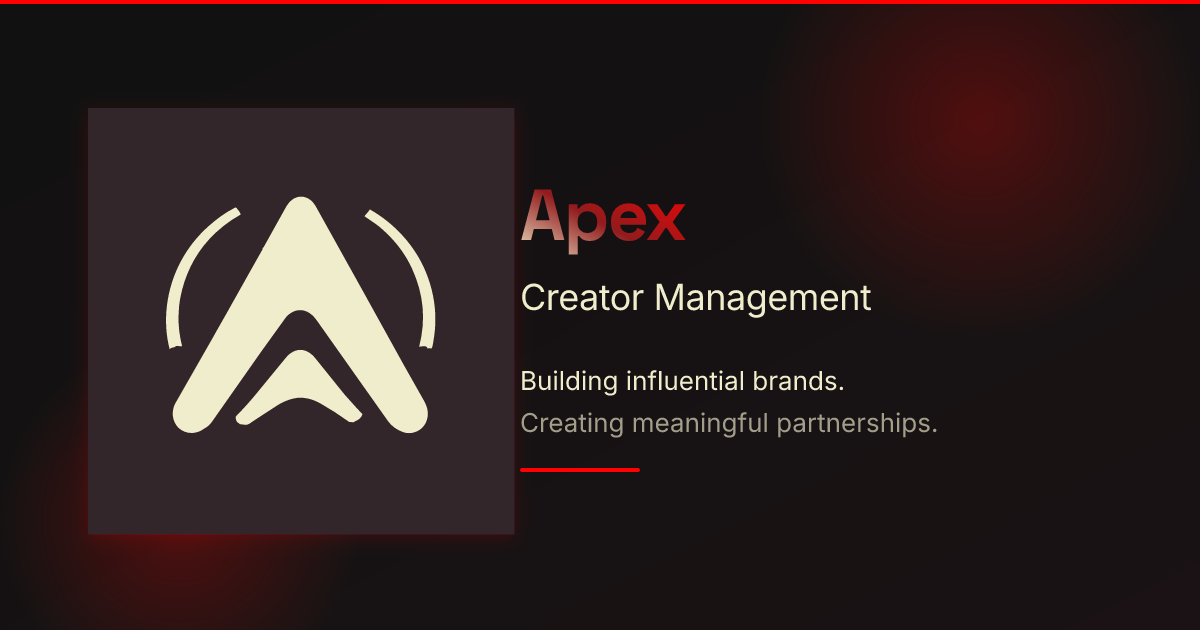
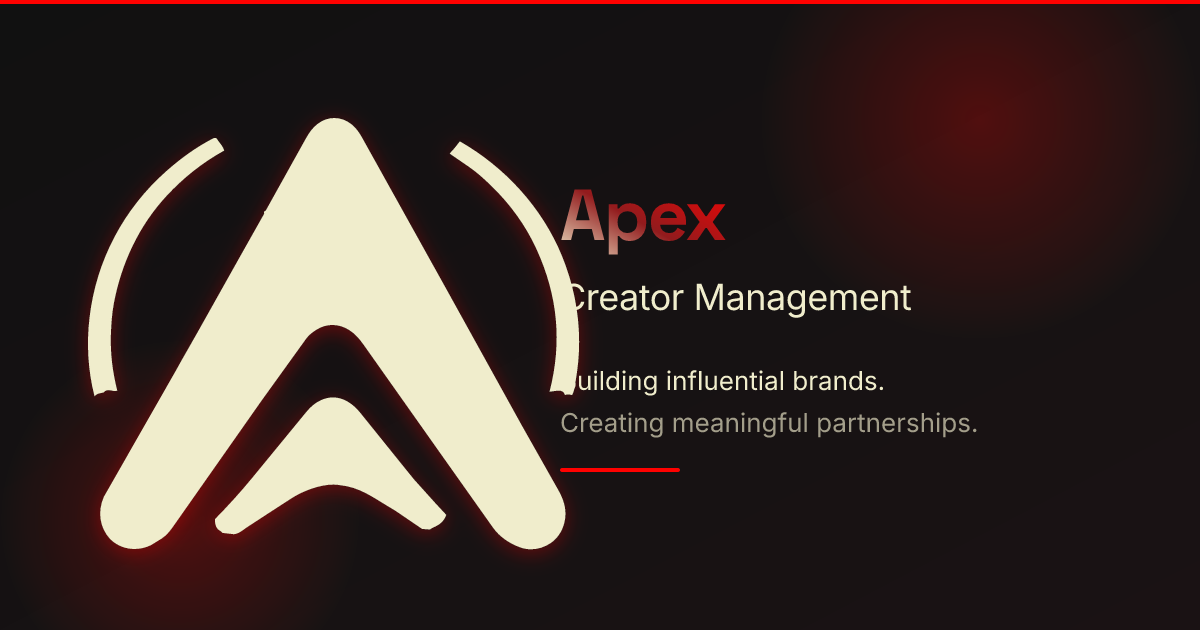
Use transparent Apex assets and add hero atmosphere band below header.
Replace inline SVG logo with Apex.svg across header, footer, favicon, and OG image; fill header gap with abstract logo watermark and grid accents.

Changed region(s): [[0.0617, 0.1508, 0.8325, 0.9048], [0.5242, 0.7238, 0.555, 0.754]]

diff --git a/src/components/marketing/ApexLogo.tsx b/src/components/marketing/ApexLogo.tsx
@@ -2,120 +2,24 @@ import { cn } from "@/lib/utils";
 
 type ApexLogoProps = {
   className?: string;
-  animated?: boolean;
-  size?: "sm" | "md" | "lg" | "hero";
+  size?: "sm" | "md" | "lg" | "xl" | "hero";
 };
-
-const BONE = "#F0EDCC";
-const SMOKE = "#312529";
-const FIRE = "#FF0100";
-const BURNT = "#921B1D";
 
 const sizeMap = {
-  sm: "w-10 h-10",
-  md: "w-16 h-16",
-  lg: "w-28 h-28",
-  hero: "w-full max-w-[min(100%,22rem)] sm:max-w-md aspect-square",
+  sm: "h-9 w-auto",
+  md: "h-14 w-auto",
+  lg: "h-24 w-auto",
+  xl: "h-36 w-auto",
+  hero: "h-[min(55vw,22rem)] w-auto",
 };
 
-const FRAME_PATH =
-  "M0,1254V0h1254v1254H0ZM581.62,616.35c4.68-6.5,10.43-10.33,16.47-14.23,16.52-10.67,36.71-9.96,53.05.73,9.23,6.04,15.95,13.58,22.46,22.81l129.09,182.59,80.14,113.16c10.56,14.91,26.94,25.87,44.03,31.9,16.8,5.93,34.76,2.68,49.12-7.15,12.89-8.82,21.19-23.5,23.22-40.19,2.04-16.72-3.27-31.34-11.45-45.81l-58.45-103.47-122.19-220.82-135.36-243.3c-4.76-8.55-9.6-15.51-16.8-21.45-16.27-13.44-38.24-13.99-54.95-1.04-8.16,6.32-13.68,14.06-18.83,23.3l-64.98,116.72c-2.66.75-3.33,2.47-2.38,4.84l-37.43,66.41-71.1,126.73-25.06,44.01-10,17.98-115.11,201.62c-10.31,23.5-7.15,49.46,10.16,68.11,17.52,17.24,43.26,20.54,65.7,9.9l17.32-10.68c9.11-5.62,15.11-14.53,21.45-23.56l139.74-198.97,72.15-100.17ZM276.73,700.47c-7.57-30.21-11.33-59.74-10.29-89.99.6-17.69,1.62-33.95,4.92-51.41,12.1-64.13,40.43-124.71,84.89-172.7,27.21-29.36,57.98-53.86,93.05-73.18-1.97-6.3-6.13-10.95-9.74-15.65-1.38-1.8-1.5-3.73-3.52-4.35-2.52-.78-3.63-.13-5.92,1.06-27.19,14.17-51.57,32.13-74.41,52.32-68.99,61-112.86,144.03-123.65,235.79-5.01,42.54-2.67,85.66,8.08,127.43,2.78-2.84,3.53-3.82,6.51-4.54l8.36-2.02c6.41-7.9,14.16-.03,21.73-2.76ZM985.85,700.65c5.85-.76,10.96.22,13.1,6.9,3.98-1.71,7.34-.9,11.46.03,3.57-6.72,4.13-13.85,5.38-21.14,3.73-21.68,5.95-42.67,5.91-64.92-.09-47.61-9.62-94.21-27.76-138.48-31.9-77.86-91.89-143.03-164.64-184.67l-8.23,10.46c-2.52,3.2-5.36,5.58-8.09,9.41l30.71,21.03c13.43,9.19,24.59,19.51,36.31,30.86,30.58,29.62,55.46,63.73,73.22,102.71,33.91,74.43,41.36,149.34,20.73,229.35l11.9-1.54ZM713.95,887.3l11.16,6.66,43.63,29.72,9,.31c3.91,1.49,5.32-1.49,7.65-2.4,10.04-3.95,18.46-9.96,22.04-20.76l-17.99-19.31-29.32-32.59c-1.79-1.99-3.01-3.14-4.76-5.31l-15.26-18.82-71.26-88.45c-16.42-20.38-38.7-31.68-63.2-20.68-9.79,4.4-17.1,10.87-23.92,19.18l-86.91,105.86c-19.26,23.45-39.01,45.2-60.47,66.99-.08,5.76.76,12.74,5.27,16.74,1.88,1.67,5.14,2.74,6.66,5.41l18.58,2.18c8.51-.9,14.84-7.12,21.5-11.47l35.86-23.41,35.7-23.13c20.51-13.29,53.55-25.32,77.42-21.24,32.15,3.23,52.83,19.11,78.65,34.52Z";
-
-const INTERIOR_PATHS = [
-  "M581.62,616.35l-72.15,100.17-139.74,198.97c-6.34,9.03-12.34,17.94-21.45,23.56l-17.32,10.68c-22.44,10.64-48.18,7.34-65.7-9.9-17.31-18.65-20.48-44.62-10.16-68.11l115.11-201.62,10-17.98,25.06-44.01,71.1-126.73,37.43-66.41c-.95-2.37-.28-4.09,2.38-4.84l64.98-116.72c5.15-9.25,10.67-16.98,18.83-23.3,16.72-12.95,38.68-12.4,54.95,1.04,7.2,5.95,12.05,12.9,16.8,21.45l135.36,243.3,122.19,220.82,58.45,103.47c8.18,14.48,13.48,29.1,11.45,45.81-2.03,16.69-10.34,31.36-23.22,40.19-14.36,9.83-32.33,13.08-49.12,7.15-17.09-6.03-33.47-16.99-44.03-31.9l-80.14-113.16-129.09-182.59c-6.52-9.22-13.24-16.77-22.46-22.81-16.34-10.69-36.53-11.4-53.05-.73-6.03,3.9-11.79,7.73-16.47,14.23Z",
-  "M713.95,887.3c-25.82-15.41-46.5-31.29-78.65-34.52-23.87-4.08-56.91,7.96-77.42,21.24l-35.7,23.13-35.86,23.41c-6.66,4.35-12.99,10.57-21.5,11.47l-18.58-2.18c-1.52-2.67-4.78-3.74-6.66-5.41-4.51-4-5.35-10.98-5.27-16.74,21.47-21.78,41.22-43.54,60.47-66.99l86.91-105.86c6.82-8.31,14.13-14.79,23.92-19.18,24.49-11,46.78.3,63.2,20.68l71.26,88.45,15.26,18.82c1.76,2.17,2.97,3.32,4.76,5.31l29.32,32.59,17.99,19.31c-3.58,10.8-12,16.81-22.04,20.76-2.33.92-3.74,3.89-7.65,2.4l-9-.31-43.63-29.72-11.16-6.66Z",
-  "M276.73,700.47c-7.58,2.73-15.32-5.14-21.73,2.76l-8.36,2.02c-2.99.72-3.73,1.7-6.51,4.54-10.75-41.78-13.08-84.89-8.08-127.43,10.8-91.76,54.66-174.79,123.65-235.79,22.84-20.2,47.23-38.15,74.41-52.32,2.29-1.19,3.4-1.83,5.92-1.06,2.03.62,2.14,2.55,3.52,4.35,3.61,4.7,7.77,9.35,9.74,15.65-35.07,19.33-65.84,43.83-93.05,73.18-44.47,47.98-72.79,108.57-84.89,172.7-3.3,17.46-4.32,33.73-4.92,51.41-1.03,30.26,2.73,59.79,10.29,89.99Z",
-  "M985.85,700.65l-11.9,1.54c20.64-80,13.19-154.91-20.73-229.35-17.76-38.98-42.64-73.09-73.22-102.71-11.72-11.35-22.88-21.66-36.31-30.86l-30.71-21.03c2.73-3.83,5.57-6.22,8.09-9.41l8.23-10.46c72.75,41.65,132.73,106.81,164.64,184.67,18.14,44.27,27.67,90.87,27.76,138.48.04,22.25-2.18,43.24-5.91,64.92-1.25,7.29-1.82,14.42-5.38,21.14-4.12-.93-7.48-1.74-11.46-.03-2.14-6.68-7.26-7.65-13.1-6.9Z",
-];
-
-const RAIN_DROPS = [
-  { x: 420, delay: "0s" },
-  { x: 520, delay: "0.35s" },
-  { x: 620, delay: "0.7s" },
-  { x: 720, delay: "0.2s" },
-  { x: 820, delay: "0.55s" },
-  { x: 480, delay: "0.9s" },
-  { x: 680, delay: "1.1s" },
-];
-
-export function ApexLogo({ className = "", animated = false, size = "md" }: ApexLogoProps) {
-  const uid = `apex-${size}`;
-
+export function ApexLogo({ className = "", size = "md" }: ApexLogoProps) {
   return (
-    <div
-      className={cn(
-        "relative inline-flex items-center justify-center",
-        sizeMap[size],
-        animated && "animate-logo-float",
-        className,
-      )}
-    >
-      {animated && (
-        <div
-          className="absolute inset-0 rounded-full bg-brand-fire/10 blur-2xl animate-logo-ring"
-          aria-hidden
-        />
-      )}
-      <svg
-        viewBox="0 0 1254 1254"
-        className="relative z-10 w-full h-full drop-shadow-lg"
-        aria-label="Apex Creator Management"
-        role="img"
-      >
-        <defs>
-          <clipPath id={`${uid}-interior`}>
-            {INTERIOR_PATHS.map((d, i) => (
-              <path key={i} d={d} />
-            ))}
-          </clipPath>
-          <linearGradient id={`${uid}-water`} x1="0" y1="1" x2="0" y2="0">
-            <stop offset="0%" stopColor={SMOKE} />
-            <stop offset="45%" stopColor={BURNT} />
-            <stop offset="100%" stopColor={FIRE} stopOpacity="0.95" />
-          </linearGradient>
-          <linearGradient id={`${uid}-surface`} x1="0" y1="0" x2="1" y2="0">
-            <stop offset="0%" stopColor="#ffffff" stopOpacity="0" />
-            <stop offset="50%" stopColor="#ffffff" stopOpacity="0.28" />
-            <stop offset="100%" stopColor="#ffffff" stopOpacity="0" />
-          </linearGradient>
-        </defs>
-
-        <path d={FRAME_PATH} fill={SMOKE} />
-
-        {animated ? (
-          <g clipPath={`url(#${uid}-interior)`}>
-            <rect x="0" y="0" width="1254" height="1254" fill={BONE} />
-            {RAIN_DROPS.map((drop, i) => (
-              <line
-                key={i}
-                x1={drop.x}
-                y1={0}
-                x2={drop.x}
-                y2={36}
-                stroke={FIRE}
-                strokeWidth={8}
-                strokeLinecap="round"
-                opacity={0.55}
-                className="animate-logo-rain"
-                style={{ animationDelay: drop.delay }}
-              />
-            ))}
-            <g className="animate-water-fill-drain">
-              <rect x="-20" y="0" width="1294" height="1294" fill={`url(#${uid}-water)`} />
-              <ellipse
-                cx="627"
-                cy="0"
-                rx="680"
-                ry="44"
-                fill={`url(#${uid}-surface)`}
-                className="animate-water-surface-wave"
-              />
-            </g>
-          </g>
-        ) : (
-          INTERIOR_PATHS.map((d, i) => <path key={i} d={d} fill={BONE} />)
-        )}
-      </svg>
-    </div>
+    <img
+      src="/Apex.svg"
+      alt="Apex Creator Management"
+      className={cn("block object-contain select-none", sizeMap[size], className)}
+      draggable={false}
+    />
   );
 }

diff --git a/src/components/marketing/HeroAtmosphere.tsx b/src/components/marketing/HeroAtmosphere.tsx
@@ -1,0 +1,46 @@
+import { ApexLogo } from "./ApexLogo";
+
+export function HeroAtmosphere() {
+  return (
+    <div className="relative w-full overflow-hidden border-b border-border/40" aria-hidden>
+      <div className="absolute inset-0 bg-gradient-to-b from-smoke/30 via-transparent to-transparent pointer-events-none" />
+      <div className="absolute top-1/2 left-1/2 -translate-x-1/2 -translate-y-1/2 w-[min(90vw,520px)] h-[min(90vw,520px)] rounded-full bg-brand-fire/10 blur-[80px] animate-glow-pulse pointer-events-none" />
+      <div className="absolute top-8 right-[8%] w-32 h-32 rounded-full bg-burnt/15 blur-3xl animate-orb pointer-events-none" />
+      <div className="absolute bottom-4 left-[6%] w-40 h-40 rounded-full bg-brand-fire/8 blur-3xl animate-orb pointer-events-none" style={{ animationDelay: "2s" }} />
+
+      <svg className="absolute inset-0 w-full h-full opacity-[0.07]" preserveAspectRatio="none" viewBox="0 0 1200 320">
+        <defs>
+          <pattern id="hero-grid" width="40" height="40" patternUnits="userSpaceOnUse">
+            <path d="M 40 0 L 0 0 0 40" fill="none" stroke="#F0EDCC" strokeWidth="0.5" />
+          </pattern>
+        </defs>
+        <rect width="1200" height="320" fill="url(#hero-grid)" />
+        <line x1="0" y1="280" x2="1200" y2="40" stroke="#FF0100" strokeWidth="1" strokeOpacity="0.35" />
+        <line x1="0" y1="60" x2="1200" y2="300" stroke="#921B1D" strokeWidth="1" strokeOpacity="0.25" />
+      </svg>
+
+      <div className="relative flex flex-col items-center justify-center px-4 pt-10 pb-8 sm:pt-12 sm:pb-10 min-h-[220px] sm:min-h-[280px]">
+        <div className="relative flex items-center justify-center">
+          <div className="absolute inset-0 scale-110 rounded-full border border-brand-fire/20 animate-logo-ring" />
+          <div className="absolute inset-0 scale-[1.35] rounded-full border border-dashed border-bone/10" />
+          <ApexLogo
+            size="xl"
+            className="relative z-10 opacity-[0.18] sm:opacity-[0.22] drop-shadow-[0_0_40px_rgba(255,1,0,0.35)]"
+          />
+          <ApexLogo
+            size="md"
+            className="absolute z-20 opacity-90 drop-shadow-[0_0_24px_rgba(255,1,0,0.25)]"
+          />
+        </div>
+
+        <div className="mt-6 flex items-center gap-3 text-[0.65rem] sm:text-xs font-bold uppercase tracking-[0.35em] text-muted-foreground">
+          <span className="h-px w-10 sm:w-16 bg-gradient-to-r from-transparent to-brand-fire/70" />
+          <span className="text-brand-fire/90">Creator Management</span>
+          <span className="h-px w-10 sm:w-16 bg-gradient-to-l from-transparent to-brand-fire/70" />
+        </div>
+      </div>
+
+      <div className="absolute inset-x-0 bottom-0 h-px bg-gradient-to-r from-transparent via-brand-fire/50 to-transparent" />
+    </div>
+  );
+}

diff --git a/src/routes/index.tsx b/src/routes/index.tsx
@@ -1,6 +1,7 @@
 import { createFileRoute } from "@tanstack/react-router";
 
 import { ContactForm } from "@/components/ContactForm";
+import { HeroAtmosphere } from "@/components/marketing/HeroAtmosphere";
 import { HeroHighlights } from "@/components/marketing/HeroHighlights";
 import { SiteFooter } from "@/components/marketing/SiteFooter";
 import { SiteHeader } from "@/components/marketing/SiteHeader";
@@ -80,14 +81,15 @@ function Index() {
       <SiteHeader />
 
       <main>
-        {/* Hero — full viewport, asymmetric split */}
-        <section className="relative min-h-[92vh] flex flex-col justify-end pb-12 sm:pb-20 pt-8 overflow-hidden">
-          <div className="absolute top-0 right-0 w-[min(600px,80vw)] h-[min(600px,80vw)] rounded-full bg-brand-fire/10 blur-[100px] animate-orb pointer-events-none" aria-hidden />
-          <div className="absolute bottom-0 left-0 w-96 h-96 rounded-full bg-burnt/10 blur-[80px] animate-orb pointer-events-none" style={{ animationDelay: "3s" }} aria-hidden />
-          <div className="absolute top-1/3 left-8 w-px h-32 fire-line opacity-60 hidden lg:block" aria-hidden />
+        <HeroAtmosphere />
+
+        {/* Hero */}
+        <section className="relative py-12 sm:py-16 lg:py-20 overflow-hidden">
+          <div className="absolute top-0 right-0 w-[min(480px,70vw)] h-[min(480px,70vw)] rounded-full bg-brand-fire/8 blur-[100px] animate-orb pointer-events-none" aria-hidden />
+          <div className="absolute bottom-0 left-0 w-72 h-72 rounded-full bg-burnt/10 blur-[80px] animate-orb pointer-events-none" style={{ animationDelay: "3s" }} aria-hidden />
 
           <div className="container mx-auto px-4 sm:px-6 relative z-10">
-            <div className="grid lg:grid-cols-12 gap-10 lg:gap-8 items-end">
+            <div className="grid lg:grid-cols-12 gap-10 lg:gap-12 items-center">
               <div className="lg:col-span-7 animate-reveal">
                 <p className="section-label mb-6">Boutique talent agency</p>
                 <h1 className="text-[clamp(2.5rem,8vw,5.5rem)] font-black uppercase tracking-[-0.03em] leading-[0.92] mb-6">
@@ -117,7 +119,7 @@ function Index() {
                 </div>
               </div>
 
-              <div className="lg:col-span-5 lg:pb-4">
+              <div className="lg:col-span-5">
                 <HeroHighlights />
               </div>
             </div>

diff --git a/src/components/marketing/SiteFooter.tsx b/src/components/marketing/SiteFooter.tsx
@@ -1,13 +1,18 @@
+import { ApexLogo } from "./ApexLogo";
+
 export function SiteFooter() {
   return (
     <footer className="relative border-t border-border bg-smoke/40 py-14 overflow-hidden">
       <div className="absolute inset-x-0 top-0 h-px bg-gradient-to-r from-transparent via-brand-fire/60 to-transparent" aria-hidden />
       <div className="container mx-auto px-4 sm:px-6 flex flex-col md:flex-row justify-between items-start md:items-center gap-8">
-        <div>
-          <p className="brand-wordmark text-3xl font-bold tracking-[-0.04em]">Apex</p>
-          <p className="text-sm text-muted-foreground mt-2 max-w-xs leading-relaxed">
+        <div className="flex items-center gap-4">
+          <ApexLogo size="sm" className="opacity-90" />
+          <div>
+            <p className="brand-wordmark text-2xl font-bold tracking-[-0.04em]">Apex</p>
+          <p className="text-sm text-muted-foreground mt-1 max-w-xs leading-relaxed">
             Creator management for influential brands worldwide.
           </p>
+          </div>
         </div>
         <div className="flex flex-wrap gap-8 text-sm font-medium text-muted-foreground">
           <a href="/#services" className="hover:text-brand-fire transition-colors">Services</a>

diff --git a/src/routes/__root.tsx b/src/routes/__root.tsx
@@ -18,6 +18,7 @@ const organizationSchema = {
   "@type": "Organization",
   name: "Apex Creator Management",
   url: SITE_URL,
+  logo: `${SITE_URL}/Apex.svg`,
   email: "[email redacted]",
 };
 
@@ -99,8 +100,8 @@ export const Route = createRootRouteWithContext<{ queryClient: QueryClient }>()(
     ],
     links: [
       { rel: "stylesheet", href: appCss },
-      { rel: "icon", href: "/1.svg", type: "image/svg+xml" },
-      { rel: "apple-touch-icon", href: "/apple-touch-icon.png" },
+      { rel: "icon", href: "/Apex.svg", type: "image/svg+xml" },
+      { rel: "apple-touch-icon", href: "/apex.png" },
       { rel: "canonical", href: SITE_URL },
       { rel: "preconnect", href: "https://fonts.googleapis.com" },
       { rel: "preconnect", href: "https://fonts.gstatic.com", crossOrigin: "anonymous" },